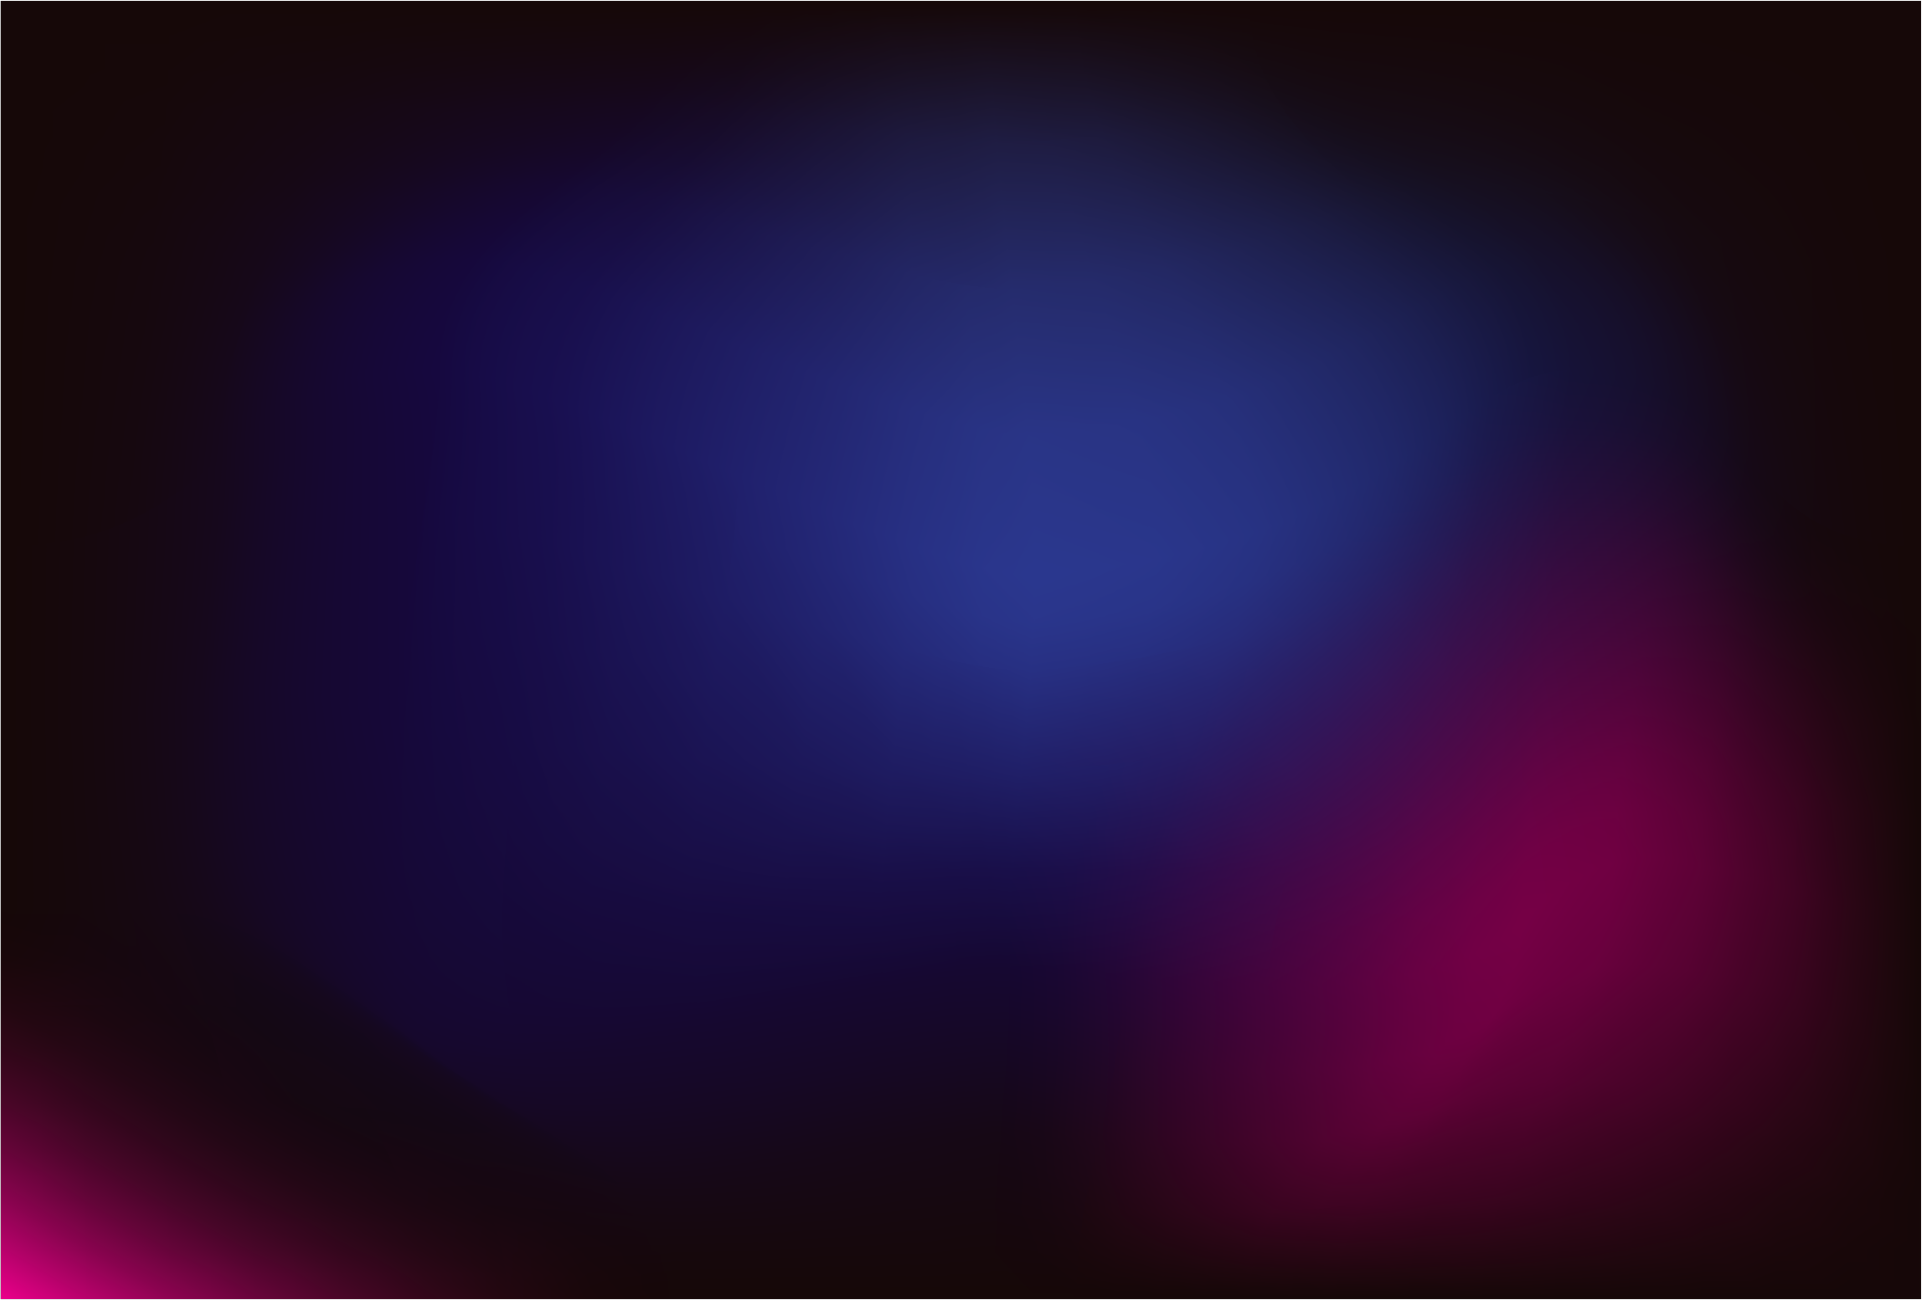
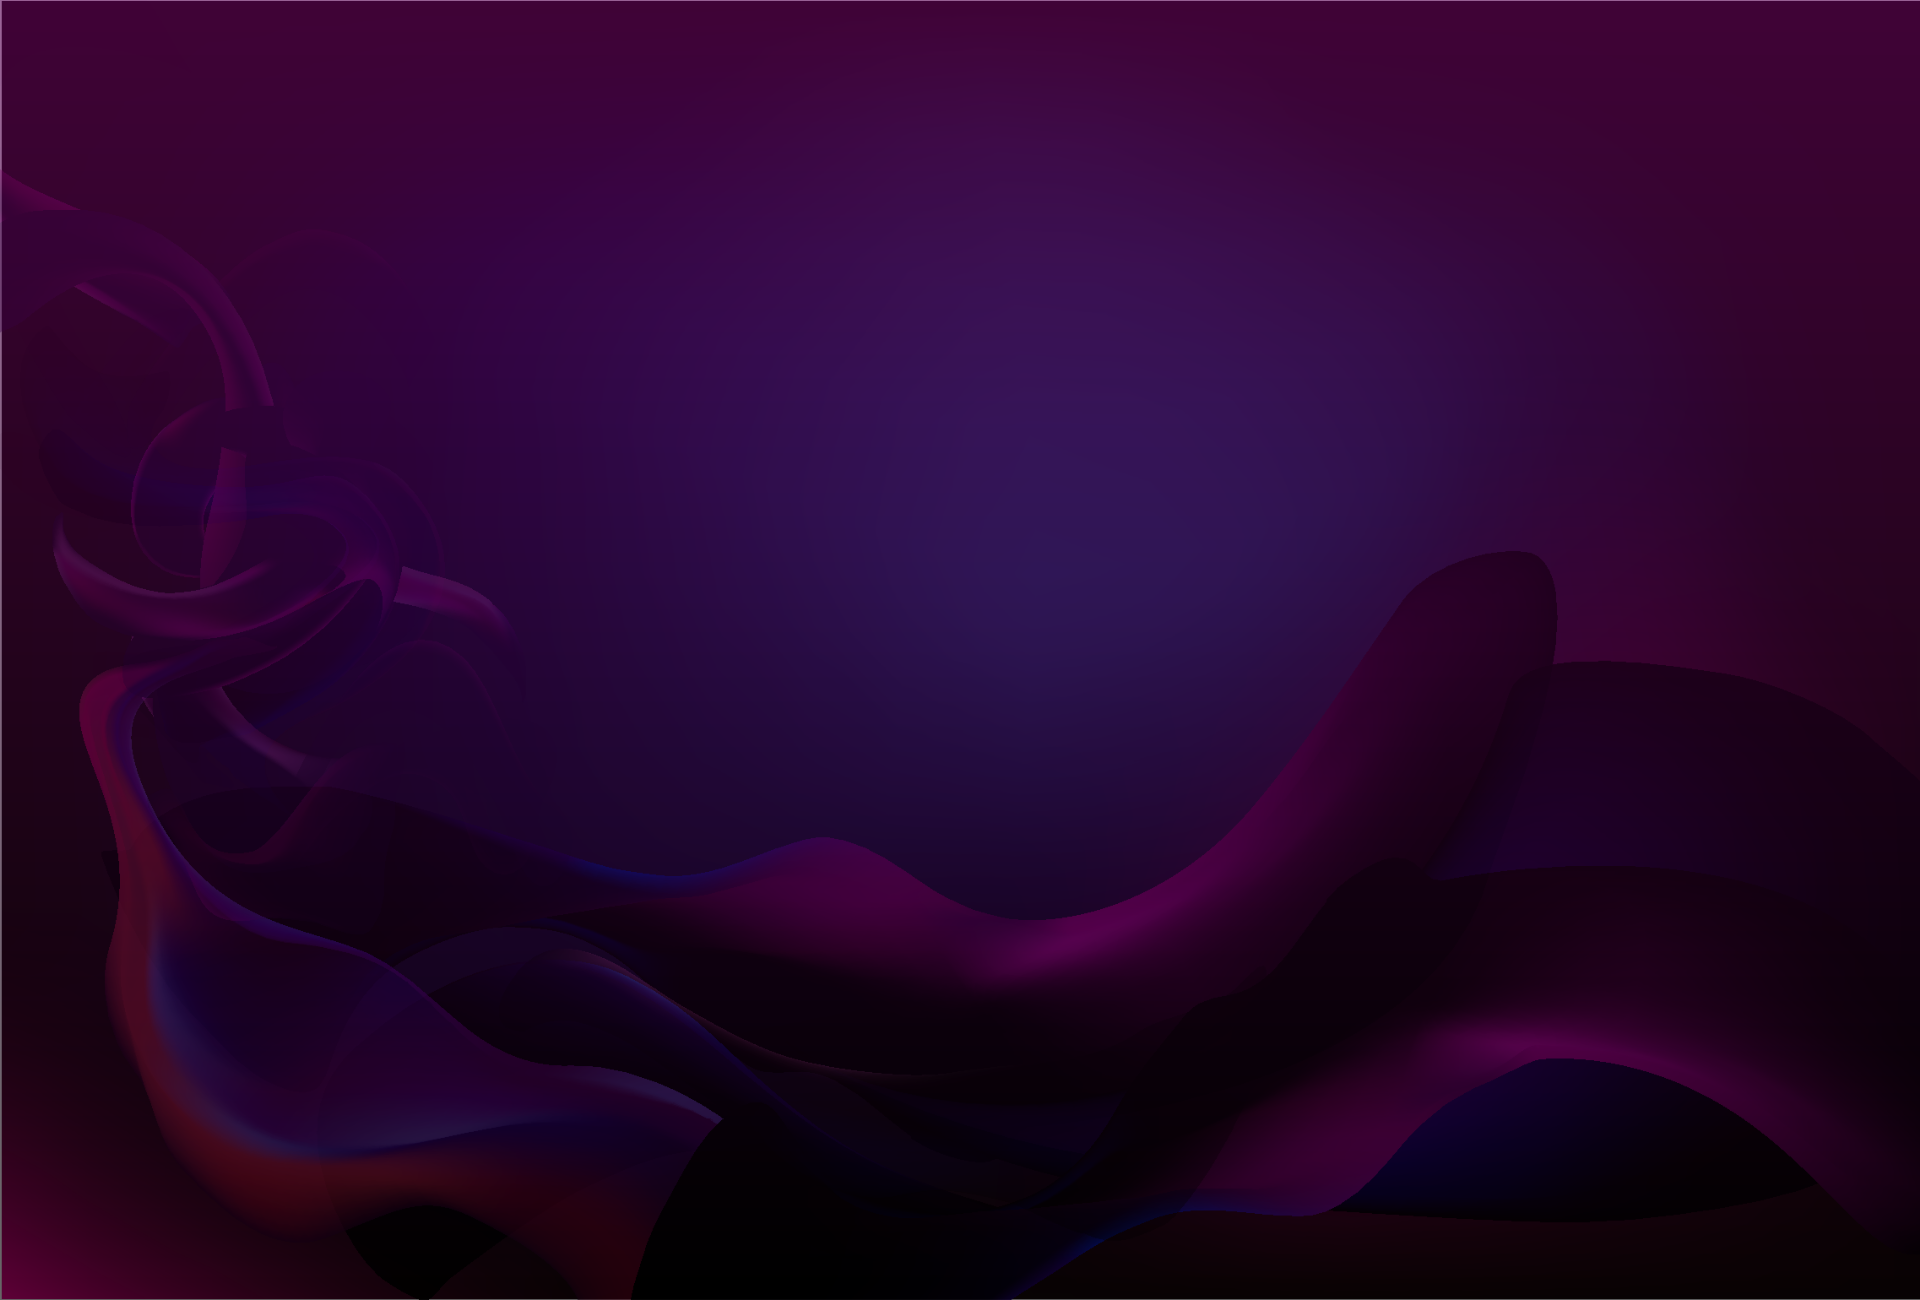
DAPS-906 change background and transparent

diff --git a/assets/react/src/assets/views/components/footer/index.js b/assets/react/src/assets/views/components/footer/index.js
@@ -86,12 +86,12 @@ class Footer extends Component {
                             {this.state.Node - this.state.MasterNode}
                         </span>
                         <span id="StakingPercent" className={`${Style.StakingPercent}`}>
-                            {String(stakingPercent) + '%'}
+                            {String(stakingPercent.toFixed(4)) + '%'}
                         </span>
                     </div>
                     <div id="MasterState" className={`${Style.MasterState}`} style={masterStyle}>
                         <span id="MasterPercent" className={`${Style.MasterPercent}`}>
-                            {String(masterPercent) + '%'}
+                            {String(masterPercent.toFixed(4)) + '%'}
                         </span>
                         <span id="MasterCount" className={`${Style.MasterCount}`}>
                             {this.state.MasterNode}

diff --git a/assets/react/src/assets/stylesheets/main.css b/assets/react/src/assets/stylesheets/main.css
@@ -13,7 +13,7 @@
 }
 
 .PageView {
-    background-image: linear-gradient(180deg, rgba(94, 0, 87, .6) 0%, rgba(0, 0, 0, .6) 100%);
+    /*background-image: linear-gradient(180deg, rgba(94, 0, 87, .6) 0%, rgba(0, 0, 0, .6) 100%);*/
     opacity: 0.9;
 }
 
@@ -270,14 +270,14 @@ form {
 
 #blockStatusBar {
     float: left;
-    background-image: url(~Images/techlinesleft.svg);
+    /*background-image: url(~Images/techlinesleft.svg);*/
     background-repeat: repeat-y;
     background-position: left top;
 }
 
 #networkStatusBar {
     float: right;
-    background-image: url(~Images/techlinesright.svg);
+    /*background-image: url(~Images/techlinesright.svg);*/
     background-repeat: repeat-y;
     background-position: right top;
 }

diff --git a/assets/react/src/assets/views/components/datacircle/style.css b/assets/react/src/assets/views/components/datacircle/style.css
@@ -23,7 +23,9 @@
     padding:0 0 0 0 !important;
     margin:0 0 0 0 !important;
 }
-
+:local(.DetailLowerHalf) {
+    margin-top: 10px;
+}
 
 :local(.Circle){
     margin-top:-50%;
